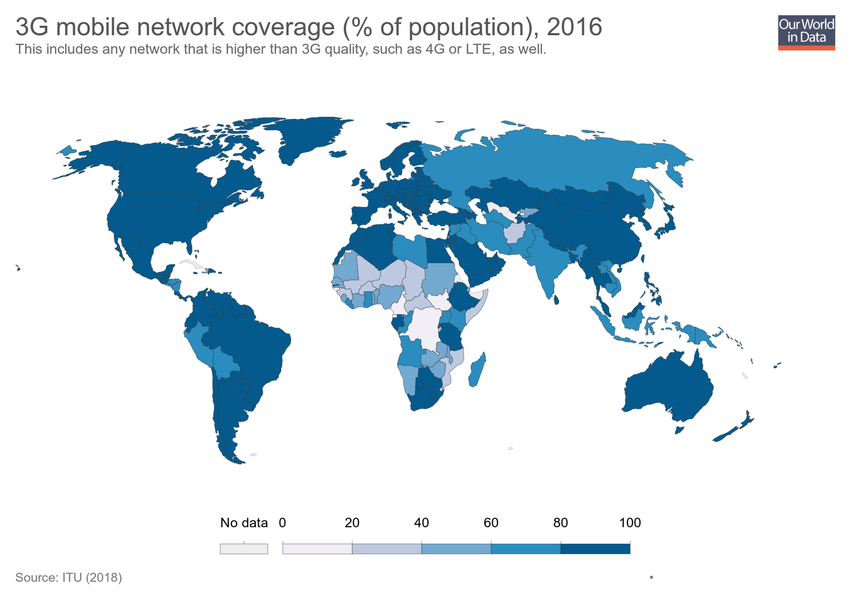
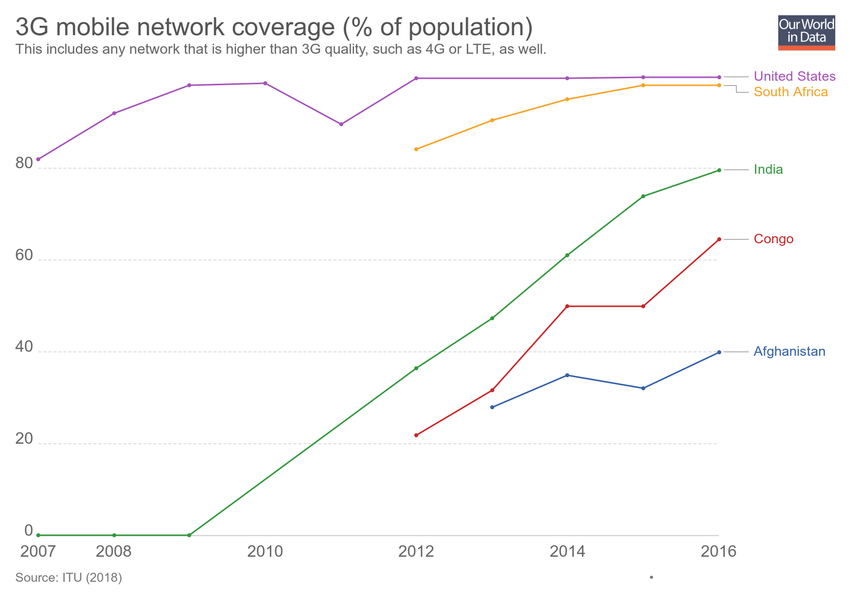
Updating chart 3g-mobile-network-coverage-of-population

diff --git a/grapher/3g-mobile-network-coverage-of-population.html b/grapher/3g-mobile-network-coverage-of-population.html
@@ -1,4 +1,4 @@
-<!doctype html><html><head><meta name="viewport" content="width=device-width, initial-scale=1" /><title>3G mobile network coverage (% of population) - Our World in Data</title><meta name="description" content="This includes any network that is higher than 3G quality, such as 4G or LTE, as well. " /><link rel="canonical" href="https://ourworldindata.org/grapher/3g-mobile-network-coverage-of-population" /><meta property="fb:app_id" content="1149943818390250" /><meta property="og:url" content="https://ourworldindata.org/grapher/3g-mobile-network-coverage-of-population" /><meta property="og:title" content="3G mobile network coverage (% of population)" /><meta property="og:description" content="This includes any network that is higher than 3G quality, such as 4G or LTE, as well. " /><meta property="og:image" content="https://ourworldindata.org/grapher/exports/3g-mobile-network-coverage-of-population.png?v=1" /><meta property="og:image:width" content="850" /><meta property="og:image:height" content="600" /><meta property="og:site_name" content="Our World in Data" /><meta name="twitter:card" content="summary_large_image" /><meta name="twitter:site" content="@OurWorldInData" /><meta name="twitter:creator" content="@OurWorldInData" /><meta name="twitter:title" content="3G mobile network coverage (% of population)" /><meta name="twitter:description" content="This includes any network that is higher than 3G quality, such as 4G or LTE, as well. " /><meta name="twitter:image" content="https://ourworldindata.org/grapher/exports/3g-mobile-network-coverage-of-population.png?v=1" /><style>
+<!doctype html><html><head><meta name="viewport" content="width=device-width, initial-scale=1" /><title>3G mobile network coverage (% of population) - Our World in Data</title><meta name="description" content="This includes any network that is higher than 3G quality, such as 4G or LTE, as well. " /><link rel="canonical" href="https://ourworldindata.org/grapher/3g-mobile-network-coverage-of-population" /><meta property="fb:app_id" content="1149943818390250" /><meta property="og:url" content="https://ourworldindata.org/grapher/3g-mobile-network-coverage-of-population" /><meta property="og:title" content="3G mobile network coverage (% of population)" /><meta property="og:description" content="This includes any network that is higher than 3G quality, such as 4G or LTE, as well. " /><meta property="og:image" content="https://ourworldindata.org/grapher/exports/3g-mobile-network-coverage-of-population.png?v=2" /><meta property="og:image:width" content="850" /><meta property="og:image:height" content="600" /><meta property="og:site_name" content="Our World in Data" /><meta name="twitter:card" content="summary_large_image" /><meta name="twitter:site" content="@OurWorldInData" /><meta name="twitter:creator" content="@OurWorldInData" /><meta name="twitter:title" content="3G mobile network coverage (% of population)" /><meta name="twitter:description" content="This includes any network that is higher than 3G quality, such as 4G or LTE, as well. " /><meta name="twitter:image" content="https://ourworldindata.org/grapher/exports/3g-mobile-network-coverage-of-population.png?v=2" /><style>
         html, body {
             height: 100%;
             margin: 0;
@@ -20,8 +20,8 @@
         }
     </style><noscript><style>
                     figure { display: none !important; }
-                </style></noscript><link rel="stylesheet" href="https://ourworldindata.org/grapher/assets/commons.bundle.dcbbe53805c487d5e57617b10ac73a8a.css" /><link rel="preload" href="/grapher/data/variables/97650.json?v=1" as="fetch" crossorigin /></head><body class="singleChart"><figure data-grapher-src="/grapher/3g-mobile-network-coverage-of-population"></figure><noscript id="fallback"><img src="/grapher/exports/3g-mobile-network-coverage-of-population.svg" /><p>Interactive visualization requires JavaScript</p></noscript><script src="https://cdn.polyfill.io/v2/polyfill.min.js?features=es6,fetch"></script><script src="https://ourworldindata.org/grapher/assets/commons.bundle.ec195eba909527e01aa5.js"></script><script src="https://ourworldindata.org/grapher/assets/charts.bundle.ec195eba909527e01aa5.js"></script><script>
-        var jsonConfig = {"map":{"projection":"World","targetYear":2016,"variableId":97650,"baseColorScheme":"PuBu","colorSchemeLabels":[],"colorSchemeValues":[],"customNumericColors":[],"customCategoryColors":{},"customCategoryLabels":{},"customHiddenCategories":{}},"tab":"map","slug":"3g-mobile-network-coverage-of-population","type":"LineChart","title":"3G mobile network coverage (% of population)","xAxis":{"scaleType":"linear"},"yAxis":{"min":0,"scaleType":"linear"},"version":1,"subtitle":"This includes any network that is higher than 3G quality, such as 4G or LTE, as well. ","hasMapTab":true,"stackMode":"absolute","dimensions":[{"display":{},"property":"y","variableId":97650}],"isAutoSlug":true,"hasChartTab":true,"isPublished":true,"selectedData":[{"index":0,"entityId":224},{"index":0,"entityId":228},{"index":0,"entityId":262}],"addCountryMode":"add-country","id":2841};
+                </style></noscript><link rel="stylesheet" href="https://ourworldindata.org/grapher/assets/commons.bundle.dcbbe53805c487d5e57617b10ac73a8a.css" /><link rel="preload" href="/grapher/data/variables/97650.json?v=2" as="fetch" crossorigin /></head><body class="singleChart"><figure data-grapher-src="/grapher/3g-mobile-network-coverage-of-population"></figure><noscript id="fallback"><img src="/grapher/exports/3g-mobile-network-coverage-of-population.svg" /><p>Interactive visualization requires JavaScript</p></noscript><script src="https://cdn.polyfill.io/v2/polyfill.min.js?features=es6,fetch"></script><script src="https://ourworldindata.org/grapher/assets/commons.bundle.ec195eba909527e01aa5.js"></script><script src="https://ourworldindata.org/grapher/assets/charts.bundle.ec195eba909527e01aa5.js"></script><script>
+        var jsonConfig = {"id":2841,"map":{"projection":"World","targetYear":2016,"variableId":97650,"baseColorScheme":"PuBu","colorSchemeLabels":[],"colorSchemeValues":[],"customNumericColors":[],"customCategoryColors":{},"customCategoryLabels":{},"customHiddenCategories":{}},"tab":"chart","slug":"3g-mobile-network-coverage-of-population","type":"LineChart","title":"3G mobile network coverage (% of population)","xAxis":{"scaleType":"linear"},"yAxis":{"min":0,"scaleType":"linear"},"version":2,"subtitle":"This includes any network that is higher than 3G quality, such as 4G or LTE, as well. ","hasMapTab":true,"stackMode":"absolute","dimensions":[{"display":{},"property":"y","variableId":97650}],"hasChartTab":true,"isPublished":true,"selectedData":[{"index":0,"entityId":15},{"index":0,"entityId":137},{"index":0,"entityId":13},{"index":0,"entityId":168},{"index":0,"entityId":81}],"internalNotes":"Don't share publicly - this data was paid for by Sophie's commission and isn't open source :(","addCountryMode":"add-country"};
         var figure = document.getElementsByTagName("figure")[0];
         try {
             window.App = {};
